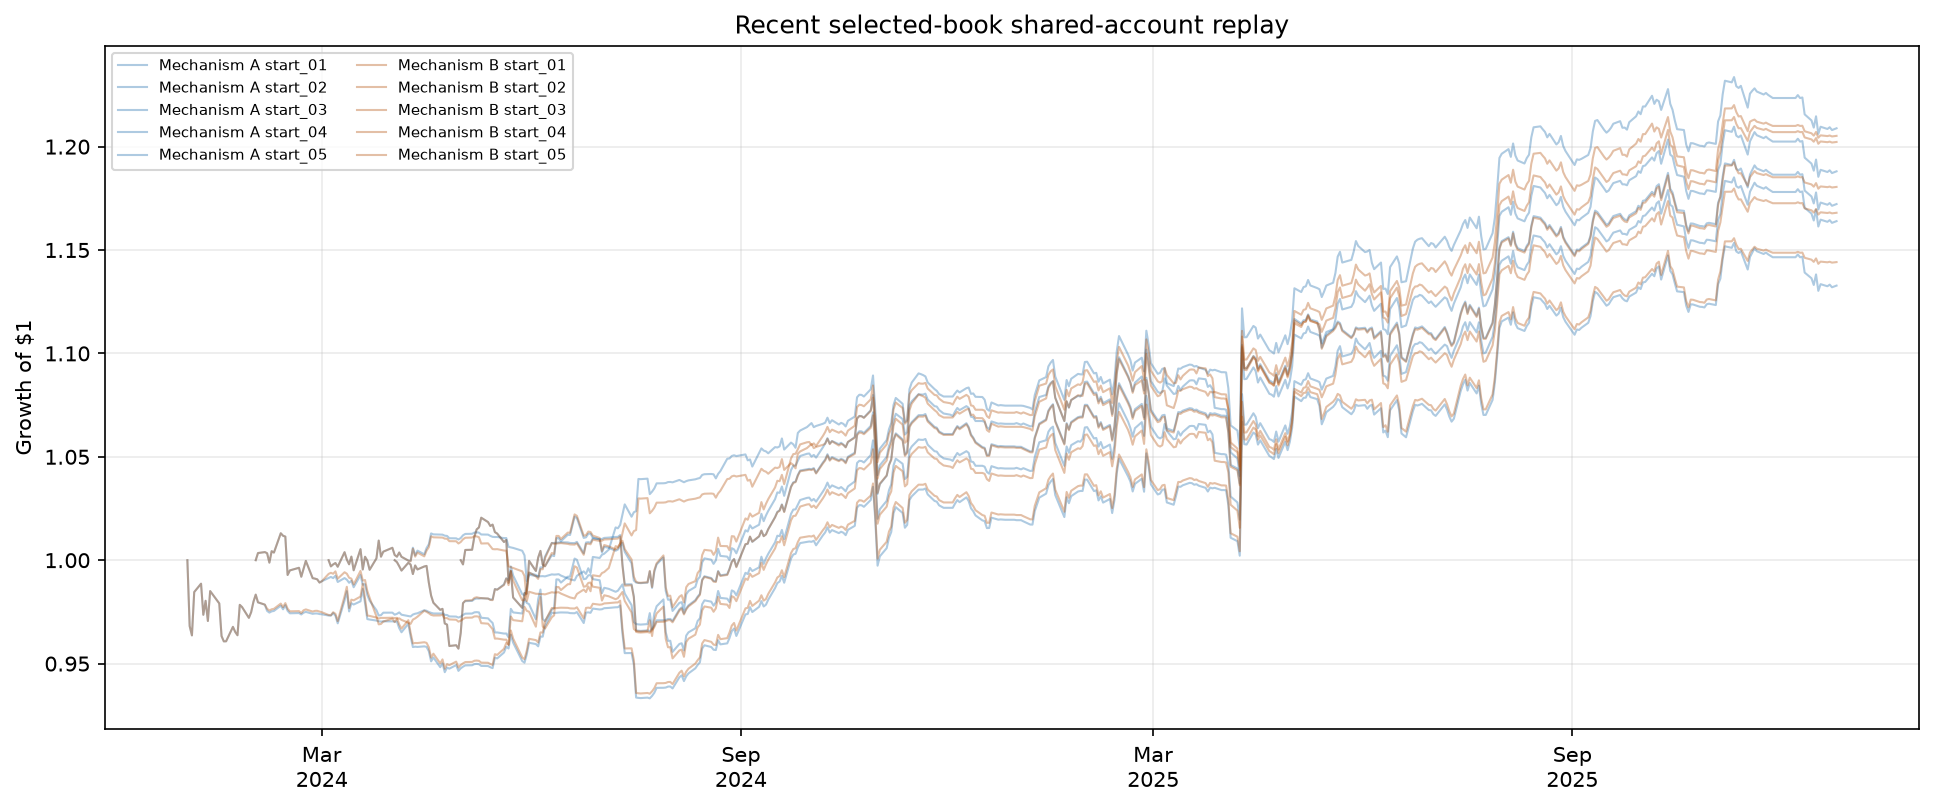
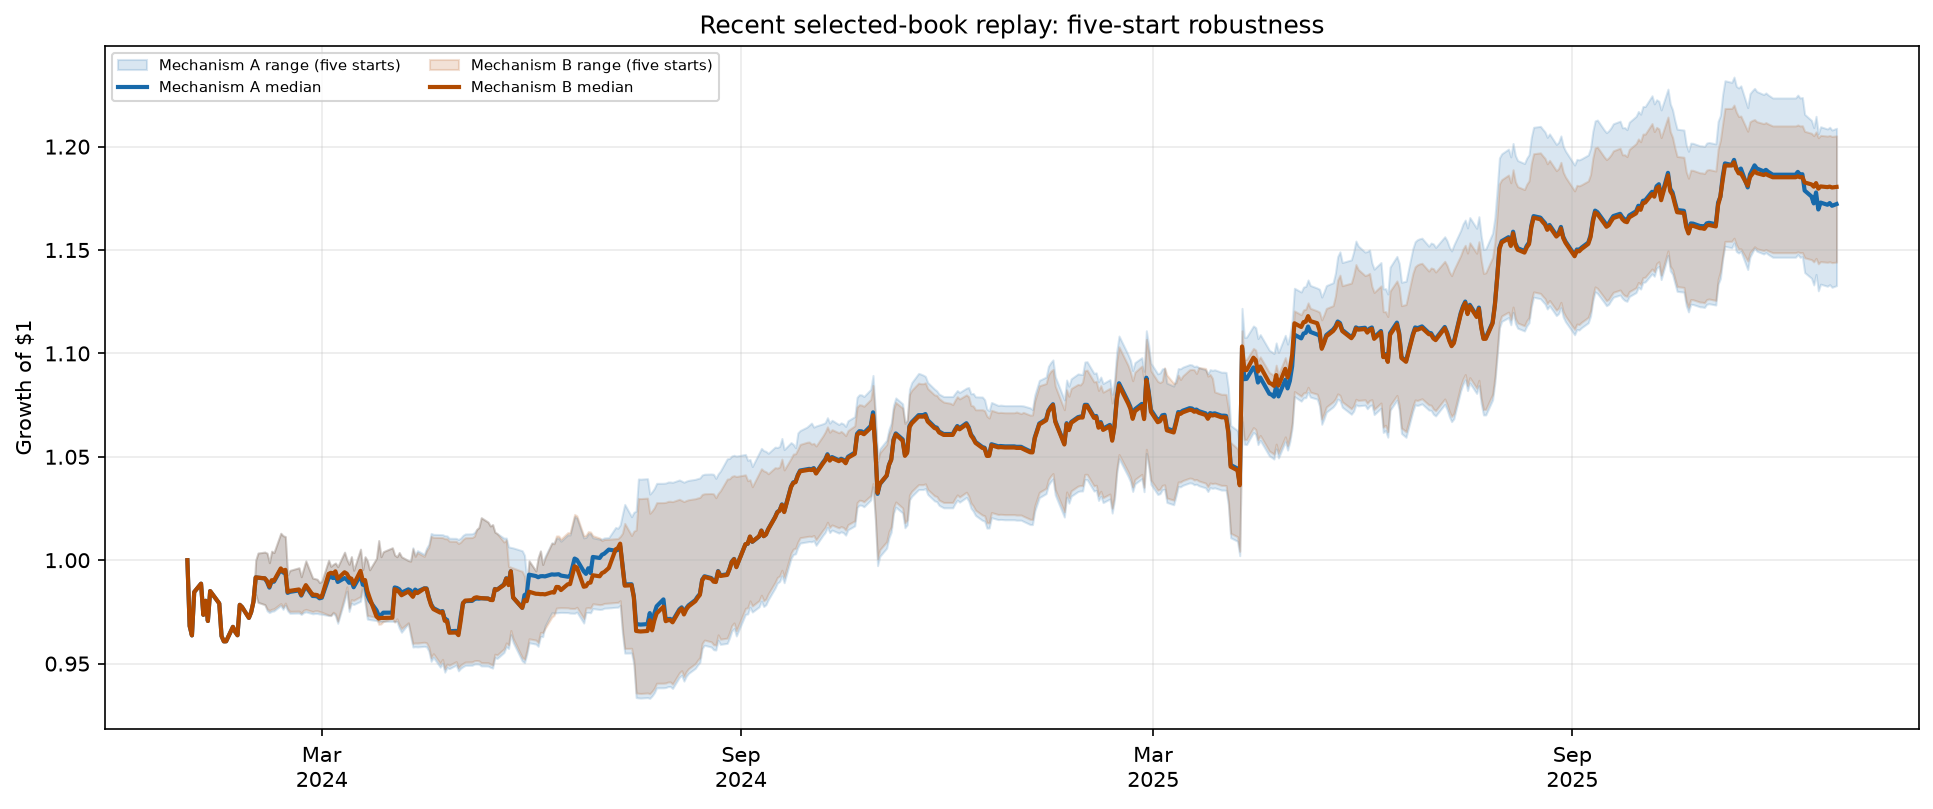
clarify public replay semantics

diff --git a/research/run_combined_backtest.py b/research/run_combined_backtest.py
@@ -5,10 +5,14 @@ daily marks) from the fixed sweep into a single capital account. Each leg keeps 
 walk-forward grid, universe, and per-fold capital; the combination happens at
 the trade-event level.
 
-Pairs are modeled as cash-neutral (buy ~notional of one leg, short ~notional of
-the other; net cash ~ 0), matching the engine, which never rejects on cash in
-these runs. The fold's cash therefore only moves by realized PnL, and "deployed"
-= gross notional outstanding.
+The replay consumes recorded trade-level returns, daily marks, and target-
+notional sizing. Realized PnL is accounted for when trades exit, while open PnL
+is accounted for from daily marks, all within one shared portfolio. Production
+cash, margin, leverage, borrow, financing, slippage, and transaction-cost
+constraints are not enforced here. `book_cash` is an accounting variable in
+this replay, not a full broker cash simulation. The underlying pair trades use
+hedge-ratio sizing because the locked public configuration records
+dollar_neutral=false.
 
 Momentum weights are causal: trailing lookback Sharpe is evaluated strictly
 before each month and the configured step and bounds set the capital split.
@@ -51,6 +55,15 @@ def load_selected_book_config(path=DEFAULT_CONFIG):
     for key in ('pair', 'momentum', 'book', 'event_replay'):
         if key not in config:
             raise ValueError(f'selected book config is missing {key!r}: {path}')
+    holding = config.get('leg_generation', {}).get('shared', {}).get('strategy', {})
+    if (
+        'max_holding_days' not in holding
+        or holding.get('max_holding_unit') != 'calendar_days'
+    ):
+        raise ValueError(
+            'selected book config must declare max_holding_unit="calendar_days": '
+            f'{path}'
+        )
     return config
 
 
@@ -208,8 +221,8 @@ def simulate(leg_data, weight_path, mech, capital=1e6, pct=0.25, max_pairs=20):
     all_trades = {L: leg_data[L]['trades'] for L in leg_names}
     folds_by_leg = {L: leg_data[L]['folds'] for L in leg_names}
 
-    # One shared cash pool (pairs are cash-neutral; cash moves only on realized
-    # PnL). Sub-accounts carry only a sizing 'basis' + their open trades.
+    # One shared accounting portfolio. Realized PnL moves through book_cash and
+    # open PnL remains in marked positions; this is not broker cash simulation.
     book_cash = capital
     subs = {}
     for L in leg_names:

diff --git a/research/plot_public_results.py b/research/plot_public_results.py
@@ -31,6 +31,16 @@ def _equity(path: Path) -> pd.Series:
     return (1.0 + _daily_returns(path).fillna(0.0)).cumprod()
 
 
+def _equity_paths(paths: list[Path]) -> pd.DataFrame:
+    """Align sparse equity curves while preserving each path's own start."""
+    curves = pd.concat(
+        [_equity(path).rename(path.parent.parent.name) for path in paths],
+        axis=1,
+        sort=False,
+    ).sort_index()
+    return curves.ffill()
+
+
 def _run_paths(combined_root: Path, window: str, mechanism: str) -> list[Path]:
     paths = sorted((combined_root / window).glob(f"start_*/{mechanism}/daily_returns.csv"))
     if not paths:
@@ -50,15 +60,26 @@ def plot_recent(combined_root: Path, output_root: Path) -> Path:
     figure, axis = plt.subplots(figsize=(13, 5.5))
     colors = {"A": "#1769aa", "B": "#b04a00"}
     for mechanism in ("A", "B"):
-        for path in _run_paths(combined_root, "recent", mechanism):
-            axis.plot(
-                _equity(path),
-                color=colors[mechanism],
-                alpha=0.35,
-                linewidth=1.0,
-                label=f"Mechanism {mechanism} {path.parent.parent.name}",
-            )
-    axis.set_title("Recent selected-book shared-account replay")
+        curves = _equity_paths(_run_paths(combined_root, "recent", mechanism))
+        lower = curves.min(axis=1)
+        median = curves.median(axis=1)
+        upper = curves.max(axis=1)
+        axis.fill_between(
+            curves.index,
+            lower.to_numpy(),
+            upper.to_numpy(),
+            color=colors[mechanism],
+            alpha=0.16,
+            label=f"Mechanism {mechanism} range (five starts)",
+        )
+        axis.plot(
+            curves.index,
+            median,
+            color=colors[mechanism],
+            linewidth=2.0,
+            label=f"Mechanism {mechanism} median",
+        )
+    axis.set_title("Recent selected-book replay: five-start robustness")
     axis.set_ylabel("Growth of $1")
     _format_axis(axis)
     axis.legend(loc="best", fontsize=7, ncol=2)

diff --git a/tests/test_selected_book.py b/tests/test_selected_book.py
@@ -1,6 +1,8 @@
 import json
 from pathlib import Path
 
+import pytest
+
 from research.run_combined_backtest import leg_specs, load_selected_book_config
 
 
@@ -70,8 +72,24 @@ def test_config_records_generation_and_execution_assumptions():
         "earnings_screen": True,
         "earnings_block_days": 7,
     }
+    assert generation["shared"]["strategy"]["max_holding_days"] == 15
+    assert generation["shared"]["strategy"]["max_holding_unit"] == "calendar_days"
     assert config["execution_assumptions"]["margin_behavior"] == "off"
     assert config["execution_assumptions"]["broker_leverage"] == 100.0
+
+
+def test_selected_book_requires_calendar_holding_unit(tmp_path):
+    source = ROOT / "research" / "selected_book_config.json"
+    with source.open(encoding="utf-8") as handle:
+        config = json.load(handle)
+    config["leg_generation"]["shared"]["strategy"]["max_holding_unit"] = (
+        "trading_sessions"
+    )
+    path = tmp_path / "selected_book_config.json"
+    path.write_text(json.dumps(config), encoding="utf-8")
+
+    with pytest.raises(ValueError, match="max_holding_unit"):
+        load_selected_book_config(path)
 
 
 def test_public_replay_metadata_does_not_publish_price_paths():

diff --git a/src/earnings_screen.py b/src/earnings_screen.py
@@ -56,8 +56,8 @@ class EarningsScreen:
         window_end = entry + timedelta(days=max_holding_days)
         if any(entry < d <= window_end for d in dates):
             return True
-        # Backward window: earnings within [entry - block_days_after, entry)
-        # Blocks trades for N trading days after an earnings event
+        # Backward window uses calendar dates and blocks the post-event period.
+        # An event within the configured N-calendar-day window blocks the entry.
         if block_days_after > 0:
             block_start = entry - timedelta(days=block_days_after)
             if any(block_start < d <= entry for d in dates):

diff --git a/docs/research_summary.md b/docs/research_summary.md
@@ -1,10 +1,11 @@
-# Robust Mean-Reversion Research Summary
+# Statistical Arbitrage Pairs Trading - Research Summary
 
 ## Scope
 
 This repository contains an offline, walk-forward research engine for
-cointegrated equity pairs. It is not a live trading system and makes no claims
-about broker execution, borrow availability, slippage, or capacity.
+cointegrated equity pairs. It is not live broker or execution infrastructure
+and makes no claims about broker execution, borrow availability, slippage, or
+capacity.
 
 ## Locked Book
 
@@ -17,10 +18,10 @@ It combines:
 - Capital: `$1,000,000`; `pct_per_pair=0.25`
 - Causal momentum allocator: 84-day lookback, 0.40 step, 10%--90% bounds
 - Initial Leg A weight: 50%
+- Pair universe: 496 two-leg candidate books
 
-The pair universe contains 496 two-leg combinations. The selected pair ranks
-first under separate-score, rank-average, and joined-Sharpe methods for both
-mechanisms A and B.
+The selected pair ranks first under separate-score, rank-average, and
+joined-Sharpe methods for both mechanisms A and B.
 
 ## Results
 
@@ -35,13 +36,19 @@ means over five aligned starts; historical is one aligned 2015--2019 window.
 | Historical | B | 8.8316% | 8.0105% | 1.0963 | -8.8666% |
 
 The compact source tables are in [`results/final/`](../results/final/):
-`metrics/selected_book_metrics.csv`,
-`rankings/clean40_pair_scores.csv`,
-`rankings/clean40_pair_rankings.csv`,
-`rankings/clean40_selected_pair.csv`, and
-`factors/selected_book.md`. The factor input is pinned in
+`metrics/selected_book_metrics.csv`, `rankings/clean40_pair_scores.csv`,
+`rankings/clean40_pair_rankings.csv`, `rankings/clean40_selected_pair.csv`,
+and `factors/selected_book.md`. The factor input is pinned in
 `factors/ff_daily_2015_2025.csv` with retrieval metadata beside it. The
 generation manifest is `manifest.json`.
+
+## Validation Boundary
+
+Individual strategy evaluation uses walk-forward out-of-sample trading folds.
+The final portfolio pair and allocator were selected after comparing performance
+across the displayed recent and historical research windows. Those periods are
+therefore not an untouched portfolio-level holdout. The next genuinely unseen
+evidence comes from future, paper, or live observations.
 
 ## Method
 
@@ -49,32 +56,43 @@ Pair selection uses the tracked corrected score snapshot in
 `results/final/rankings/clean40_pair_scores.csv`. The
 [`research/portfolio_selection.py`](../research/portfolio_selection.py) module
 recomputes the separate score, recent and historical ranks, rank average, and
-joined-Sharpe rank for all 496 pairs. It then requires the configured pair to
-rank first under every criterion in both mechanisms. The two legs are not
-combined by adding independent return percentages. The replay consumes trade
-logs and daily trade marks, maintains one shared cash account, applies causal
-monthly weights, and records realized and open-trade PnL.
+joined-Sharpe rank for all 496 books. It then requires the configured pair to
+rank first under every criterion in both mechanisms.
 
-The `A` and `B` columns in the candidate score tables identify an unordered
-pair; the locked leg roles and runtime assignment are defined by the selected
-book configuration.
+The two legs are not combined by adding independent return percentages. The
+replay derives each trade's return stream from recorded daily marks and its
+target-notional basis, then applies that return to a configured shared-account
+sizing basis. This public accounting replay does not enforce production cash,
+margin, leverage, borrow, slippage, or transaction-cost constraints. Underlying
+pair sizing is hedge-ratio based unless dollar-neutral mode is explicitly
+enabled; the locked configuration records `dollar_neutral=false`.
 
 Mechanism A re-bases active fold sizing monthly. Mechanism B locks a fold basis
 and applies the current weight only to new entry flow. Neither mechanism forces
 open trades to rebalance.
 
+The `A` and `B` columns in the candidate score tables identify an unordered
+pair; the locked leg roles and runtime assignment are defined by the selected
+book configuration.
+
 ## Generation Parameters
 
 Both legs use the S&P 500 universe, log prices, cross-sector pairing, a
 cointegration p-value threshold of 0.05, return-divergence threshold 0.10,
-three-month test folds, and these fixed strategy parameters: entry z-score
-2.2, exit z-score 1.0, stop z-score 4.5, residual validation 90, z-score
-lookback multiplier 0.5, hedge-ratio threshold 0.8, and maximum holding period
-15 trading days. Each fold selects at most 20 pairs with `pct_per_pair=0.25`
-and `dollar_neutral=false`.
+three-month test folds, and these fixed strategy parameters: entry z-score 2.2,
+exit z-score 1.0, stop z-score 4.5, residual validation 90, z-score lookback
+multiplier 0.5, and hedge-ratio threshold 0.8. Each fold selects at most 20
+pairs with `pct_per_pair=0.25` and `dollar_neutral=false`.
+
+The canonical event fixtures use a loss-only maximum-holding check based on
+elapsed calendar dates. In the locked configuration, `max_holding_days=15` with
+`max_holding_unit="calendar_days"` means 15 calendar days. This is the behavior
+actually used to generate the published research. A trading-session-based rule
+would be a future strategy revision rather than a retroactive change to the
+published backtest.
 
 - Leg A uses pool `sp500_12m`, 12-month selection, one-month fold slide, and no earnings screen.
-- Leg B uses pool `sp500_2m`, 2-month selection, three-month fold slide, and an earnings screen with a seven-day block.
+- Leg B uses pool `sp500_2m`, 2-month selection, three-month fold slide, and an earnings screen with a 15-calendar-day forward window and seven-calendar-day post-event block.
 - The shared account starts at `$1,000,000`; the allocator uses an 84-day causal lookback, 0.40 step, 10%--90% bounds, and initial Leg A weight 50%.
 - Replay assumptions are broker leverage 100, margin behavior `off`, 50% long and short margin, and 25%/30% maintenance requirements. Borrow, slippage, and transaction costs are not modeled.
 
@@ -108,14 +126,5 @@ The combined replay reads only the tracked event fixtures under
 `results/final/event_replay_inputs/`. The generic experiment runner remains an
 exploratory path and requires a compatible price snapshot and pool data.
 
-The experiment runner can load a validated local price snapshot with
-`--price-snapshot`; without one it fetches prices through `yfinance`. Pool
-construction is explicit and metadata-bearing:
-
-```text
-python scripts/build_pair_pool.py --selection-start 2023-01-01 --selection-stop 2023-05-01 --selection-months 12 --universe sp500 --return-divergence 0.10 --output data/pools/sp500_12m.pkl
-```
-
-The historical `fixed_diagnosis/` corpus and notebooks are evidence of the
-development process, not the runtime source of truth. The archival tag
-`pre-public-cleanup-20260909` preserves that development history separately.
+The archival tag `pre-public-cleanup-20260909` preserves the internal
+development history separately from the proposed public tree.

diff --git a/README.md b/README.md
@@ -56,18 +56,13 @@ across the displayed recent and historical research windows, so those periods
 are not an untouched portfolio-level holdout. The next genuinely unseen evidence
 comes from future, paper, or live observations.
 
-## Open Strategy Decision
+## Holding Period Semantics
 
-The canonical fixtures use the existing loss-only max-holding implementation,
-which measures elapsed calendar dates. Therefore `max_holding_days=15` currently
-means 15 calendar days, not 15 trading sessions. Changing this to 15 trading
-sessions would alter exits and require regenerating affected leg results and
-downstream artifacts.
-
-- A: preserve the historical behavior and document it as 15 calendar days.
-- B: correct it to 15 trading sessions and regenerate the affected research.
-
-No strategy-behavior change is made in this branch.
+The canonical research uses a loss-only 15-calendar-day maximum holding period,
+recorded as `max_holding_days=15` and `max_holding_unit="calendar_days"` in the
+locked configuration. This is the behavior actually used to generate the
+published research. A trading-session-based rule would be a future strategy
+revision, not a retroactive change to the published backtest.
 
 ## Public Evidence
 

diff --git a/docs/research_journey.md b/docs/research_journey.md
@@ -32,8 +32,9 @@ engine also monitored hedge-ratio stability and could close a trade when the
 relationship appeared to have structurally changed. A loss-only maximum-holding
 condition and fold/session termination handled positions that did not resolve
 normally. The current implementation measures that maximum-holding threshold
-with calendar-date subtraction: the tested `max_holding_days=15` means 15
-calendar days, not 15 trading sessions.
+with calendar-date subtraction: the tested `max_holding_days=15` and
+`max_holding_unit="calendar_days"` mean 15 calendar days, not 15 trading
+sessions.
 
 Validation was already intended to be walk-forward rather than a single static
 in-sample fit. Formation data selected pairs and estimated parameters, and
